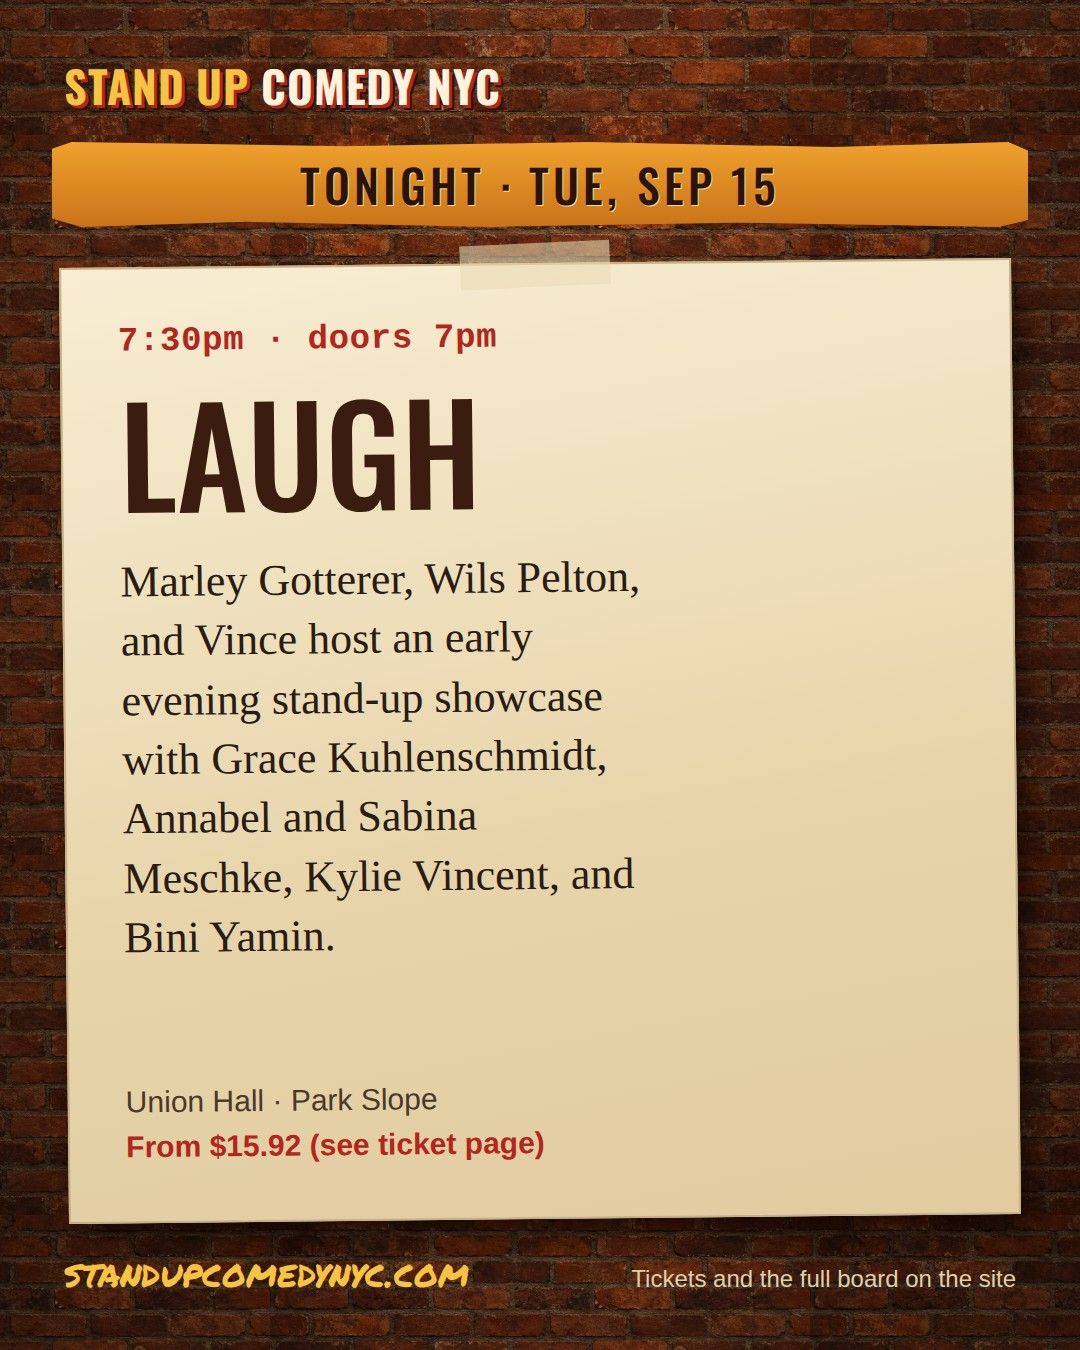
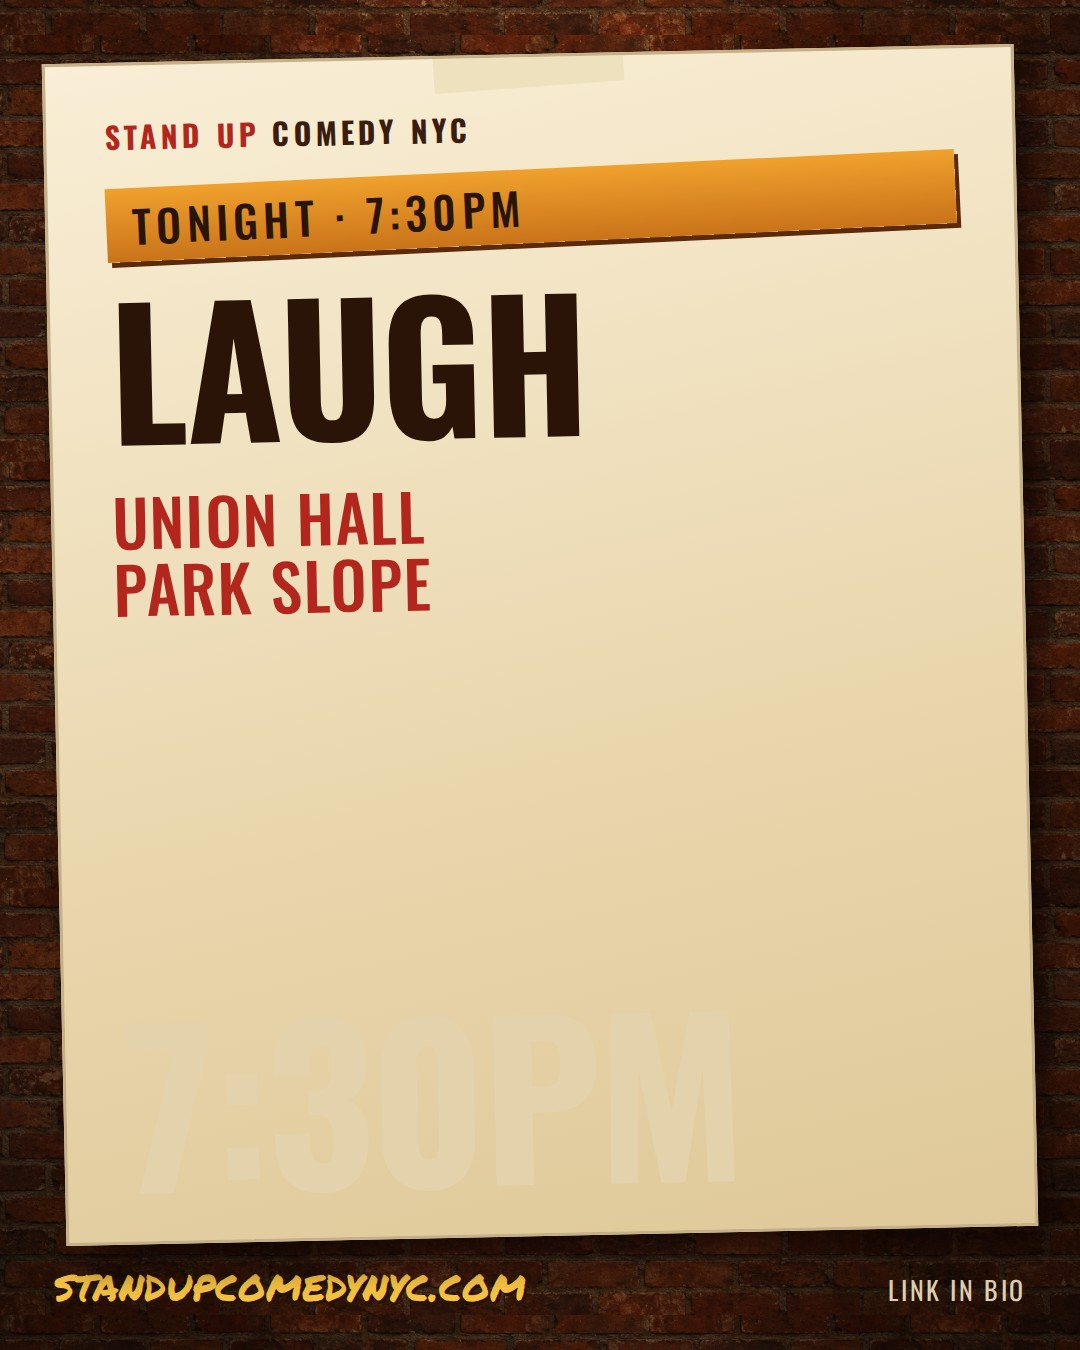
Instagram cards redesigned as posters: big titles, red venue line, ghosted showtime, stamps

Changed region(s): [[0.0, 0.0, 1.0, 1.0], [0.1222, 0.8089, 0.5194, 0.8711]]

diff --git a/scripts/ig-card.js b/scripts/ig-card.js
@@ -49,6 +49,8 @@ const dataUrl = (p, type) => `data:${type};base64,` + fs.readFileSync(p).toStrin
 const picks = JSON.parse(fs.readFileSync(path.join(web, 'data', 'picks.json'), 'utf8'));
 const posters = JSON.parse(fs.readFileSync(path.join(root, 'POSTER-SOURCES.json'), 'utf8'));
 const reusable = new Set(posters.filter((p) => p.reuse === 'granted').map((p) => p.src));
+const venuesByName = new Map(JSON.parse(fs.readFileSync(path.join(web, 'data', 'venues.json'), 'utf8')).map((v) => [v.name, v]));
+const hoodOf = (p) => venuesByName.get(p.venue)?.neighborhood || p.neighborhood || '';
 
 function weekendDays(day) {
   const d = new Date(day + 'T12:00:00Z'); const wd = d.getUTCDay();
@@ -62,54 +64,54 @@ const base = `
 @font-face{font-family:Marker;src:url(${dataUrl(path.join(web, 'assets/fonts/PermanentMarker.ttf'), 'font/ttf')})}
 *{box-sizing:border-box;margin:0}
 html,body{width:${W}px;height:${H}px;overflow:hidden}
-body{background:#2a1208 url(${dataUrl(path.join(web, 'assets/club-brick.png'), 'image/png')}) center/540px repeat;position:relative;font-family:Georgia,serif;color:#2a1b13}
-body:before{content:'';position:absolute;inset:0;background:radial-gradient(ellipse at 50% 30%,#00000000 30%,#0000008c 100%)}
-.wrap{position:relative;padding:64px 64px 56px;height:100%;display:flex;flex-direction:column}
-.wordmark{font:700 44px/1 Oswald;letter-spacing:.02em;text-transform:uppercase;color:#f6c343;text-shadow:3px 3px 0 #b3261e,5px 5px 0 #2a1208}
-.wordmark span{color:#fff3dc}
-.bar{margin:34px -12px 0;background:linear-gradient(#d3352a,#a51d15);color:#fff3dc;font:500 46px/1.15 Oswald;text-transform:uppercase;letter-spacing:.09em;text-align:center;padding:16px 24px;text-shadow:2px 2px 0 #5a0d08;clip-path:polygon(0 8%,2% 0,30% 5%,55% 0,80% 6%,98% 0,100% 10%,100% 92%,97% 100%,70% 95%,45% 100%,20% 94%,3% 100%,0 90%)}
-.bar.gold{background:linear-gradient(#f0a12d,#c9731a);color:#2a1408;text-shadow:1px 1px 0 #fbe0a6}
-.paper{margin-top:36px;flex:1;background:#f3e6c8 linear-gradient(170deg,#f8edd3,#e7d4aa 60%,#e0cc9f);border:2px solid #c6b088;box-shadow:10px 14px 30px #0d0402c0;padding:52px 56px;transform:rotate(-.6deg);display:flex;flex-direction:column;gap:22px;position:relative}
-.paper:before{content:'';position:absolute;top:-22px;left:50%;width:150px;height:44px;margin-left:-75px;background:#e9dcb590;transform:rotate(-2deg)}
-.time{font:700 34px/1.2 'Courier New',monospace;color:#b3261e;letter-spacing:.02em}
-.title{font:500 var(--ts,92px)/1 Oswald;text-transform:uppercase;letter-spacing:.005em;color:#3a1d0e}
-.desc{font:44px/1.35 Georgia,serif;color:#2a1b13;max-width:24ch;margin-top:10px}
-.meta{margin-top:auto;font:30px/1.5 Arial,sans-serif;color:#4a382b}
-.meta b{color:#b3261e;font-weight:700}
-.tag{display:inline-block;background:#3a1d0e;color:#f6e4c3;font:700 22px/1 'Courier New',monospace;letter-spacing:.1em;text-transform:uppercase;padding:10px 14px}
-.tag.paid{background:#c9731a;color:#2a1408}
-.foot{margin-top:34px;display:flex;justify-content:space-between;align-items:baseline;color:#f6e4c3}
-.foot .url{font:38px/1 Marker;color:#f6c343}
-.foot .note{font:24px/1.3 Arial,sans-serif;color:#e0cfae}
-.list{display:flex;flex-direction:column;gap:0}
-.row{display:grid;grid-template-columns:170px 1fr;gap:20px;padding:22px 0;border-bottom:2px dashed #b9a882;align-items:baseline}
+body{background:#2a1208 url(${dataUrl(path.join(web, 'assets/club-brick.png'), 'image/png')}) center/640px repeat;position:relative;font-family:Oswald,Impact,sans-serif;color:#2a1b13}
+body:before{content:'';position:absolute;inset:0;background:radial-gradient(ellipse at 50% 35%,#0000 25%,#000000b0 100%)}
+.wrap{position:relative;height:100%;display:flex;flex-direction:column;padding:54px 54px 44px}
+.paper{flex:1;background:#f3e6c8 linear-gradient(168deg,#f9eed6,#e8d5ab 62%,#dfc99a);border:3px solid #c6b088;box-shadow:14px 18px 36px #0d0402d0;transform:rotate(-1.2deg);padding:56px 58px 48px;display:flex;flex-direction:column;position:relative;overflow:hidden}
+.paper:before{content:'';position:absolute;top:-22px;left:50%;width:190px;height:52px;margin-left:-95px;background:#e9dcb5a8;transform:rotate(-3deg)}
+.brand{font:700 30px/1 Oswald;letter-spacing:.14em;text-transform:uppercase;color:#b3261e}
+.brand span{color:#3a1d0e}
+.kicker{display:inline-block;margin:26px 0 0;background:linear-gradient(#f0a12d,#c9731a);color:#2a1408;font:500 44px/1 Oswald;text-transform:uppercase;letter-spacing:.12em;padding:16px 26px 14px;transform:rotate(-1.5deg);box-shadow:4px 5px 0 #5a2a0a}
+.title{margin-top:34px;font:700 var(--ts,150px)/.92 Oswald;text-transform:uppercase;letter-spacing:-.01em;color:#2a1408;word-wrap:break-word}
+.where{margin-top:40px;font:500 64px/1.05 Oswald;text-transform:uppercase;letter-spacing:.02em;color:#b3261e}
+.big-time{margin-top:auto;padding-top:20px;font:700 210px/.9 Oswald;color:#e3d2ac;letter-spacing:-.02em;text-transform:uppercase}
+.where small{display:block;margin-top:14px;font:400 34px/1.3 Arial,sans-serif;text-transform:none;letter-spacing:0;color:#4a382b}
+.stamp{position:absolute;right:52px;bottom:190px;transform:rotate(-8deg);border:6px solid #b3261e;color:#b3261e;font:700 54px/1 Oswald;text-transform:uppercase;letter-spacing:.08em;padding:12px 18px;opacity:.9}
+.stamp.paid{border-color:#3a1d0e;color:#3a1d0e}
+.foot{margin-top:26px;display:flex;justify-content:space-between;align-items:baseline}
+.foot .url{font:44px/1 Marker;color:#f6c343;text-shadow:2px 3px 0 #2a1208}
+.foot .note{font:26px/1.2 Oswald;text-transform:uppercase;letter-spacing:.1em;color:#e0cfae}
+.list{margin-top:26px;display:flex;flex-direction:column;justify-content:space-evenly;flex:1}
+.row{padding:14px 0;border-bottom:4px dotted #b9a882}
 .row:last-child{border-bottom:0}
-.row .t{font:700 30px/1.2 'Courier New',monospace;color:#b3261e}
-.row .n{font:500 44px/1.05 Oswald;text-transform:uppercase;color:#3a1d0e}
-.row .v{font:26px/1.4 Arial,sans-serif;color:#4a382b;margin-top:6px}
-.art{margin:-10px 0 4px;height:520px;display:flex;align-items:center;justify-content:center;background:#efe5cd;border:1px solid #c6b088}
+.row .n{font:700 var(--rs,72px)/.95 Oswald;text-transform:uppercase;color:#2a1408}
+.row .v{margin-top:10px;font:500 40px/1.2 Oswald;text-transform:uppercase;letter-spacing:.06em;color:#b3261e}
+.art{margin:24px 0 0;height:440px;background:#efe5cd;border:2px solid #c6b088;display:flex;align-items:center;justify-content:center}
 .art img{max-height:100%;max-width:100%;object-fit:contain}
-.credit{font:20px/1.3 Arial,sans-serif;color:#6b5a48}
 </style>`;
 
-const titleSize = (t) => t.length > 64 ? 64 : t.length > 44 ? 78 : t.length > 28 ? 96 : t.length > 16 ? 116 : 136;
+const titleSize = (t) => t.length > 60 ? 88 : t.length > 40 ? 104 : t.length > 24 ? 128 : t.length > 14 ? 150 : 176;
+const rowSize = (n, maxLen) => n <= 2 ? (maxLen > 30 ? 84 : 110) : n <= 3 ? (maxLen > 30 ? 72 : 96) : n <= 4 ? (maxLen > 30 ? 58 : 76) : (maxLen > 30 ? 48 : 60);
+const sub = (p) => { const m = String(p.description || '').match(/^[^.!?]{12,90}[.!?]/); return m ? m[0] : ''; };
 
 function pickCard(p) {
-  const art = p.poster && reusable.has(p.poster.src) ? `<div class="art"><img src="${dataUrl(path.join(web, p.poster.src.replace(/^\//, '')), 'image/' + p.poster.src.split('.').pop().replace('jpg', 'jpeg'))}"></div><p class="credit">${esc(p.poster.credit)}</p>` : '';
-  const tag = p.sponsored ? '<span class="tag paid">Paid listing</span>' : p.featured ? '<span class="tag">Editor’s pick</span>' : '';
-  return `${base}<div class="wrap"><div class="wordmark">Stand Up <span>Comedy NYC</span></div>
-<div class="bar ${p.date === nyDate() ? 'gold' : ''}">${p.date === nyDate() ? 'Tonight · ' : ''}${esc(shortDate(p.date))}</div>
-<div class="paper" style="--ts:${titleSize(p.title)}px">${art}<div class="time">${esc(p.time_label)} ${tag}</div><h1 class="title">${esc(p.title)}</h1>
-<p class="desc">${esc(p.description)}</p><p class="meta">${esc(p.venue)} · ${esc(p.neighborhood)}<br><b>${esc(p.price_label)}</b></p></div>
-<div class="foot"><span class="url">standupcomedynyc.com</span><span class="note">Tickets and the full board on the site</span></div></div>`;
+  const art = p.poster && reusable.has(p.poster.src) ? `<div class="art"><img src="${dataUrl(path.join(web, p.poster.src.replace(/^\//, '')), 'image/' + p.poster.src.split('.').pop().replace('jpg', 'jpeg'))}"></div>` : '';
+  const stamp = p.demand === 'sold_out' ? '<div class="stamp">Sold out</div>' : p.demand === 'going_fast' ? '<div class="stamp">Going fast</div>' : p.sponsored ? '<div class="stamp paid">Paid listing</div>' : '';
+  const tonight = p.date === nyDate();
+  return `${base}<div class="wrap"><div class="paper" style="--ts:${titleSize(p.title)}px">${stamp}<div class="brand">Stand Up <span>Comedy NYC</span></div>
+<div class="kicker">${tonight ? 'Tonight' : esc(shortDate(p.date))} · ${esc(p.time_label.split(' · ')[0])}</div>
+<h1 class="title">${esc(p.title)}</h1>${art}
+<p class="where">${esc(p.venue)}<br>${esc(hoodOf(p))}<small>${/see (the )?(ticket|listing|show) page|see listing/i.test(p.price_label || '') ? esc(sub(p) || '') : esc(p.price_label) + (sub(p) ? ' — ' + esc(sub(p)) : '')}</small></p><div class="big-time">${esc(p.time_label.split(' · ')[0])}</div></div>
+<div class="foot"><span class="url">standupcomedynyc.com</span><span class="note">Link in bio</span></div></div>`;
 }
 
 function coverCard(label, day, list) {
-  const rows = list.slice(0, 6).map((p) => `<div class="row"><div class="t">${esc(p.time_label.split(' · ')[0])}</div><div><div class="n" style="font-size:${p.title.length > 40 ? 34 : 44}px">${esc(p.title)}</div><div class="v">${esc(p.venue)} · ${esc(p.neighborhood)}${p.sponsored ? ' · Paid listing' : ''}</div></div></div>`).join('');
-  const more = list.length > 6 ? `<p class="meta">+ ${list.length - 6} more on the site</p>` : '';
-  return `${base}<div class="wrap"><div class="wordmark">Stand Up <span>Comedy NYC</span></div>
-<div class="bar gold">${esc(label)}</div><div class="paper"><div class="time">${esc(longDate(day))}</div><div class="list">${rows}</div>${more}</div>
-<div class="foot"><span class="url">standupcomedynyc.com</span><span class="note">Link in bio for tickets</span></div></div>`;
+  const n = Math.min(list.length, 5); const maxLen = Math.max(...list.slice(0, n).map((p) => p.title.length));
+  const rows = list.slice(0, n).map((p) => `<div class="row"><div class="n" style="--rs:${rowSize(n, maxLen)}px">${esc(p.title)}</div><div class="v">${esc(p.time_label.split(' · ')[0])} · ${esc(p.venue)}${p.demand === 'sold_out' ? ' · sold out' : ''}${p.sponsored ? ' · paid' : ''}</div></div>`).join('');
+  const more = list.length > n ? `<div class="row"><div class="v">+ ${list.length - n} more on the site</div></div>` : '';
+  return `${base}<div class="wrap"><div class="paper"><div class="brand">Stand Up <span>Comedy NYC</span></div>
+<div class="kicker">${esc(label)} · ${esc(shortDate(day))}</div><div class="list">${rows}${more}</div></div>
+<div class="foot"><span class="url">standupcomedynyc.com</span><span class="note">Link in bio</span></div></div>`;
 }
 
 (async () => {

diff --git a/DRAFT-NOTES.md b/DRAFT-NOTES.md
@@ -99,3 +99,6 @@ Mazzie's edition filled the four empty weeks (Sep 29 to Oct 26). 36 new special-
 
 ## Big stages — September 15, 2026
 Nick chose: one dated board with a mark, a Big stages group at the top of Save the date, and a shelf cap. A pick is a big stage when its venue's kind is "theater" in venues.json (22 rooms after Mazzie's review). Board rows and pinned cards carry a green "Big stage" tag; Save the date opens with a Big stages group (every theater pick beyond two weeks, dated) before the weekly groups; the flyer shelf never shows more than one theater show among its three slots, in the initial order and while cycling. The Markdown edition says "Big stage." on those lines and save-the-date.md has a Big stages section. Mazzie's theater and NYCF sweep added 30 theater picks and held three acts for Nick under the editorial policy.
+
+## Instagram cards, poster pass — September 15, 2026
+Nick: the first cards looked like a spreadsheet. Redesigned as posters: brand line, gold date bar, the title at up to 176px, venue and neighborhood in red, one short sentence, a big ghosted showtime filling the lower half, and Sold out / Going fast / Paid listing as a rotated stamp. Cover lists up to five titles with time and venue, sized to fit. Unknown prices no longer lead the line. First automated post went out today (instagram.com/p/DdUFSiklrBA) with the old design; tomorrow's uses this one.
